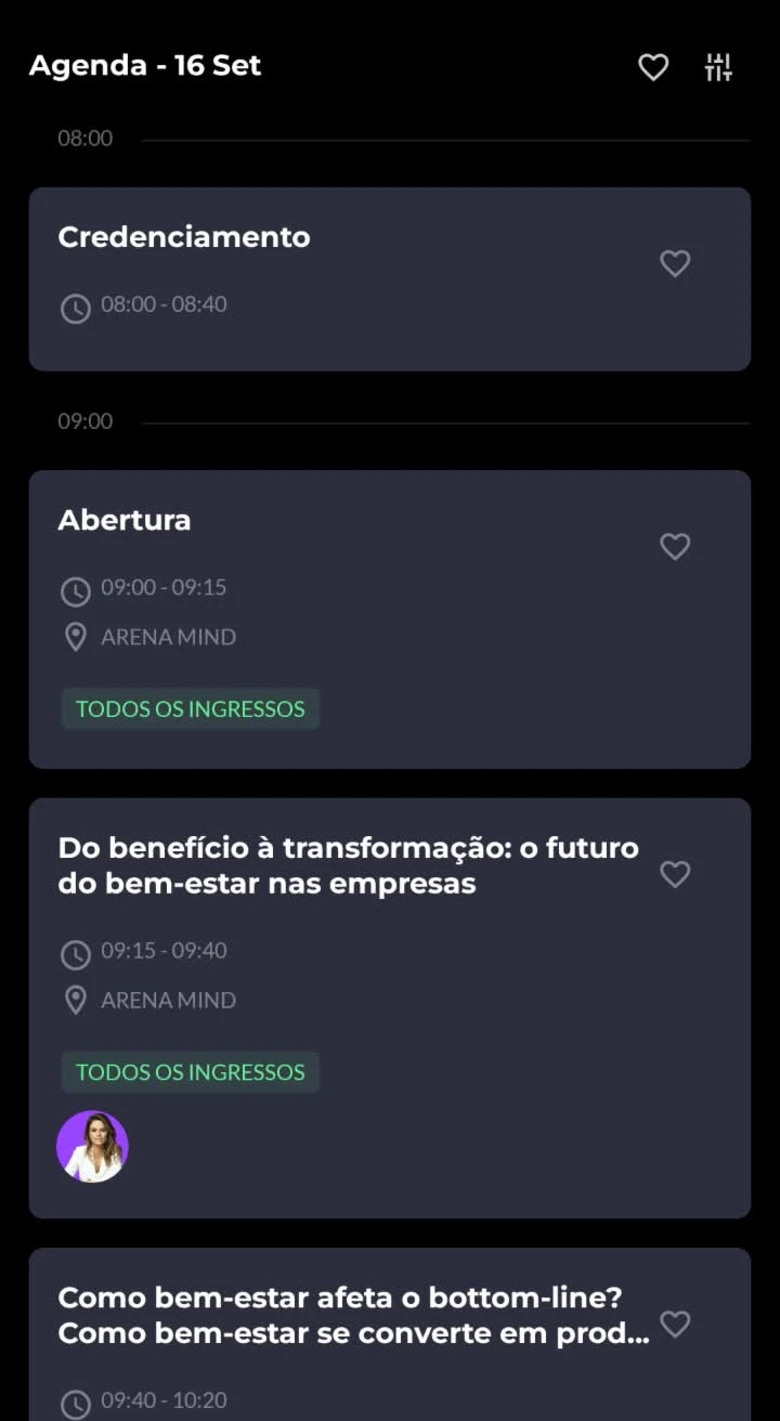
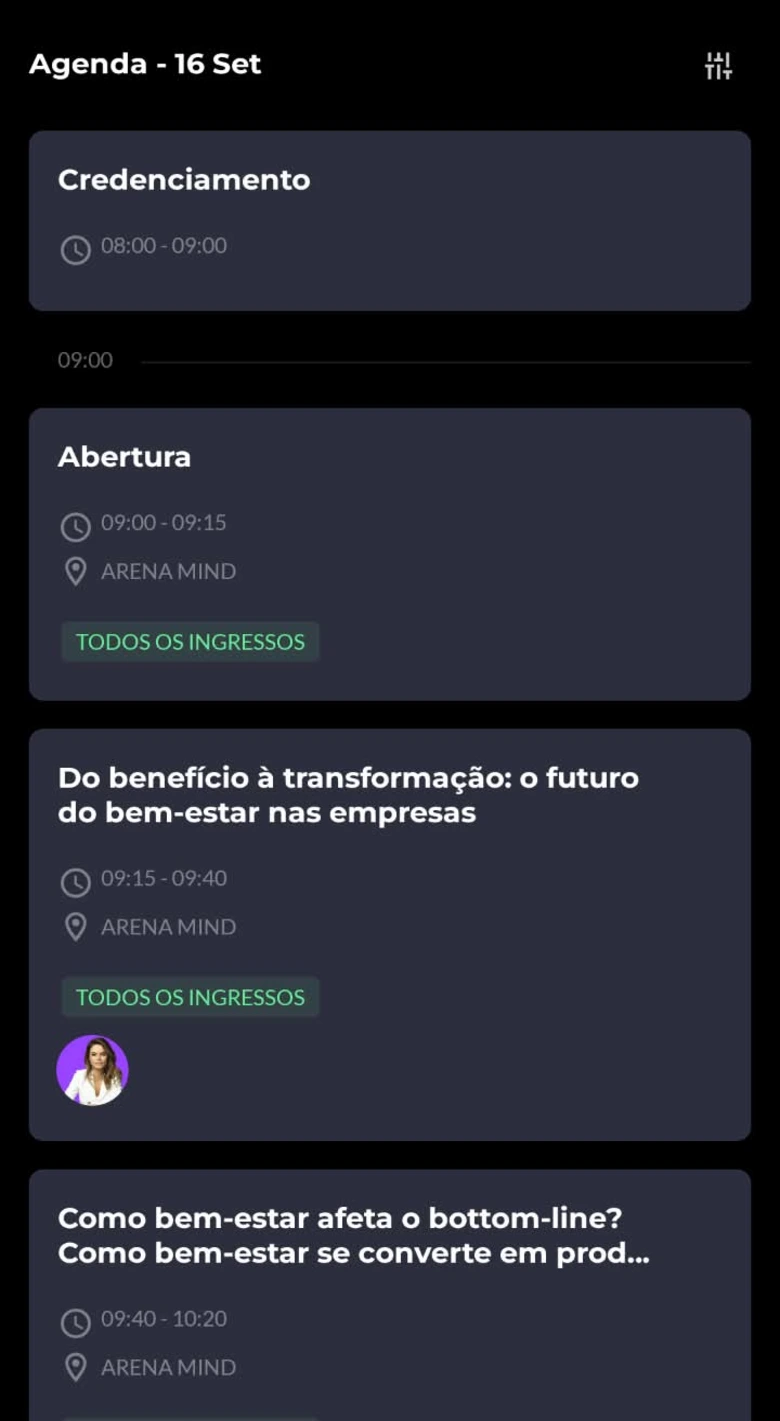
feat: rebuild the session screens on captures without the heart
As capturas novas entraram: Agenda sem coração nos cartões e com o topo
só do filtro, e a página da sessão no layout novo — banner verde com foto
do palestrante, e o botão em "Não é possível reservar / 0 de 0 créditos".

O botão foi reconstruído ativo, no verde do app, e a linha de créditos
apagada. O chip "TODOS OS INGRESSOS" começa em y 1055, bem abaixo dela;
medi os dois blocos separados justamente para não repetir o apagão do
chip de outra vez. A confirmação saiu da mesma base, com o botão trocado
por "✓ Reserva confirmada" no lugar exato.

Minha Agenda foi recomposta: o cartão dela vinha da Agenda antiga e
carregava um coração junto.

Hotspots remedidos sobre as fotos novas — os cartões da Agenda mudaram de
altura, o filtro do topo encolheu para o ícone sozinho, e a página da
sessão inteira desceu por causa do banner.

O CORAÇÃO NÃO SUMIU DE TUDO. O print da sessão mostra que ele continua ao
lado de "Adriana Drulla", em Palestrantes: some da sessão, fica na
pessoa. Eu tinha removido esse também, no commit anterior — voltou, com o
gesto `favoritar-pal` e a marca desenhada. E a página da sessão ganhou um
alvo no bloco de palestrantes que diz de quem é o coração agora.

Percurso em 360x800: quatro missões, sete passos, nenhum alvo roubado nem
fora da foto, sem rolagem horizontal, e nenhum texto restante fala em
salvar sessão.

diff --git a/app.js b/app.js
@@ -184,10 +184,10 @@ const TELAS = {
     img: 'agenda', aba: 'agenda', rotulo: 'Agenda',
     serve: 'Toda a programação dos dias 16 e 17, por horário e arena. É aqui que você escolhe o que assistir.',
     alvos: [
-      { id: 'topo', x: 88, y: 4.6, w: 20, h: 4.5, brinde: 'Filtre por trilha, arena e horário.' },
-      { id: 'card1', x: 50, y: 19.6, w: 92, h: 13, brinde: 'Cada card é uma sessão. Toque para abrir.' },
+      { id: 'topo', x: 92.1, y: 4.6, w: 8, h: 4.5, brinde: 'Filtre por trilha, arena e horário.' },
+      { id: 'card1', x: 49.9, y: 15.5, w: 92.4, h: 12.5, brinde: 'Cada card é uma sessão. Toque para abrir.' },
       /* Largura inteira: não há mais coração de salvar dividindo a linha. */
-      { id: 'card', x: 50, y: 71, w: 92, h: 28, vai: 'detalhe', modo: 'push',
+      { id: 'card', x: 49.9, y: 65.7, w: 92.4, h: 28.8, vai: 'detalhe', modo: 'push',
         dica: 'Toque na <b>sessão</b> para abrir os detalhes.' },
     ],
   },
@@ -195,9 +195,10 @@ const TELAS = {
     img: 'detalhe', aba: 'agenda', volta: 'agenda', rotulo: 'Sessão',
     serve: 'A página da sessão: descrição, horário, local, palestrantes e a reserva, quando a vaga é limitada.',
     alvos: [
-      { id: 'voltar', x: 7.7, y: 4.7, w: 12, h: 4.5, volta: true },
-      { id: 'calendario', x: 33, y: 49, w: 50, h: 4.5, brinde: 'Exporta a sessão para o calendário do seu celular.' },
-      { id: 'reservar', x: 49.9, y: 67.1, w: 88.6, h: 5.5, faz: 'reservar', missao: 'm2', vai: 'confirmada', modo: 'troca',
+      { id: 'voltar', x: 7.8, y: 4.6, w: 12, h: 4.5, volta: true },
+      { id: 'calendario', x: 29.5, y: 47.9, w: 47, h: 4.5, brinde: 'Exporta a sessão para o calendário do seu celular.' },
+      { id: 'palestrante', x: 49.9, y: 90.7, w: 88.6, h: 6.9, brinde: 'A bio de quem fala — e o coração salva a pessoa, não a sessão.' },
+      { id: 'reservar', x: 49.9, y: 65.7, w: 88.8, h: 4.9, faz: 'reservar', missao: 'm2', vai: 'confirmada', modo: 'troca',
         folha: 'reservado', obrigatoria: true,
         dica: 'Esta sessão tem vaga limitada. Toque em <b>Reservar lugar</b>.' },
     ],
@@ -210,9 +211,9 @@ const TELAS = {
     /* Mesma página da sessão, agora no estado reservado: a geometria é a
        de `detalhe`, não a da captura antiga. */
     alvos: [
-      { id: 'voltar', x: 7.7, y: 4.7, w: 12, h: 4.5, volta: true },
-      { id: 'calendario', x: 33, y: 49, w: 50, h: 4.5, brinde: 'Exporta a sessão para o calendário do seu celular.' },
-      { id: 'confirmacao', x: 49.9, y: 67.1, w: 88.6, h: 5.5,
+      { id: 'voltar', x: 7.8, y: 4.6, w: 12, h: 4.5, volta: true },
+      { id: 'calendario', x: 29.5, y: 47.9, w: 47, h: 4.5, brinde: 'Exporta a sessão para o calendário do seu celular.' },
+      { id: 'confirmacao', x: 49.9, y: 65.7, w: 88.8, h: 4.9,
         brinde: 'No dia da sessão, o check-in é feito aqui mesmo.' },
     ],
   },
@@ -222,7 +223,7 @@ const TELAS = {
     alvos: [
       { id: 'nova', x: 82, y: 8, w: 30, h: 5, brinde: 'Dá para montar mais de uma agenda.' },
       { id: 'busca', x: 50, y: 14.3, w: 88, h: 5, brinde: 'Busque pelo nome da sessão.' },
-      { id: 'sessao', x: 50, y: 36.9, w: 92, h: 30.7,
+      { id: 'sessao', x: 49.9, y: 36, w: 92.4, h: 29.8,
         brinde: 'A sessão que você reservou. No dia, o check-in é aqui dentro.' },
     ],
   },
@@ -275,10 +276,11 @@ const TELAS = {
   },
   'palestrantes': {
     img: 'palestrantes', aba: 'menu', volta: 'menu', rotulo: 'Palestrantes',
-    serve: 'Todos os nomes do Summit, com bio e as sessões de cada um.',
+    serve: 'Todos os nomes do Summit, com bio e as sessões de cada um. O coração salva a pessoa.',
     alvos: [
       { id: 'voltar', x: 7.7, y: 4.7, w: 12, h: 4.5, volta: true, dica: 'Toque em <b>‹</b> para voltar ao Menu.' },
       { id: 'busca', x: 50, y: 11.5, w: 88, h: 5, brinde: 'Busque pelo nome de quem você quer ver.' },
+      { id: 'fav1', x: 89.7, y: 20.5, w: 12, h: 5, faz: 'favoritar-pal', brinde: 'Palestrante salvo 💚' },
     ],
   },
   'chat': {
@@ -547,7 +549,9 @@ function pintar(modo) {
     el.style.left = alvo.x + '%';
     el.style.top = alvo.y + '%';
     if (tipo === 'pendente' || tipo === 'escolhido') { el.style.width = alvo.w + '%'; el.style.height = (alvo.h * 0.86) + '%'; }
-    if (tipo === 'pendente') {
+    if (tipo === 'coracao') {
+      el.innerHTML = '<svg viewBox="0 0 24 24" fill="#68ee95"><path d="M12 21s-7.5-4.8-9.5-9A5.4 5.4 0 0 1 12 6.4 5.4 5.4 0 0 1 21.5 12c-2 4.2-9.5 9-9.5 9z"/></svg>';
+    } else if (tipo === 'pendente') {
       el.textContent = 'Pendente';
     }
     conteudo.appendChild(el);
@@ -637,6 +641,7 @@ function voltar() {
 
 async function tocar(a) {
   if (emTransicao) return;                       /* nada de toque duplo */
+  if (a.faz === 'favoritar-pal') { marcas[telaAtual] = marcas[telaAtual] || {}; marcas[telaAtual][a.id] = 'coracao'; }
   if (a.faz === 'contato') { marcas[telaAtual] = marcas[telaAtual] || {}; marcas[telaAtual][a.id] = 'pendente'; }
   if (a.faz === 'filtrar') { marcas[telaAtual] = marcas[telaAtual] || {}; marcas[telaAtual][a.id] = 'escolhido'; }
 

diff --git a/styles.css b/styles.css
@@ -583,8 +583,10 @@ body {
   75% { transform: translate(calc(-50% + 6px), -50%); }
 }
 
-/* Marcas desenhadas por cima da foto (contato pendente, filtro escolhido) */
+/* Marcas desenhadas por cima da foto (palestrante salvo, contato pendente,
+   filtro escolhido). O coração é de pessoa: sessão não se salva mais. */
 .marca { position: absolute; transform: translate(-50%, -50%); z-index: 1; pointer-events: none; }
+.marca.coracao svg { width: 6.4cqw; height: 6.4cqw; display: block; }
 .marca.pendente {
   background: #4a4a4a; color: #fff;
   border-radius: 2cqw;
